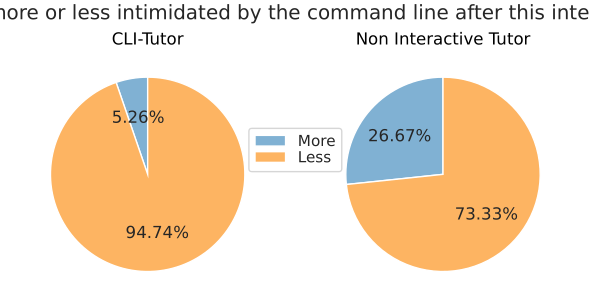
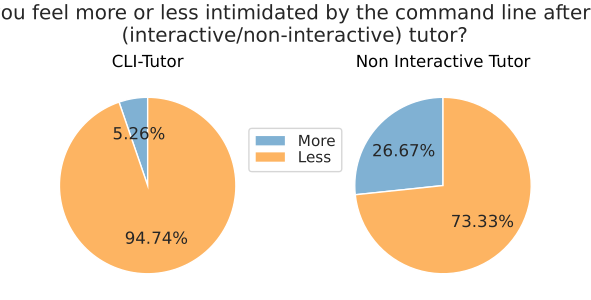
plots: Adjust title of confidence plot

diff --git a/thesis/chapters/results/results.tex b/thesis/chapters/results/results.tex
@@ -19,7 +19,9 @@
 \begin{figure}[htbp]
 	\centering
 	\scalebox{0.67}{\input{plots/confidence/plot.pgf}}
-	\vspace{-4em}
-	\caption{confidence}
-	\label{fig:question}
+	\vspace{-2em}
+	\caption{Charts comparing the post lesson intimidation levels between the two study groups.}
+	\label{fig:confidence}
 \end{figure}
+
+\subsection{Intimidation Factors}

diff --git a/thesis/plots/confidence/plot.py b/thesis/plots/confidence/plot.py
@@ -12,7 +12,7 @@ fig, (ax1, ax2) = plt.subplots(1, 2, figsize=(5.90666,3))
 sns.set(style="ticks")
 
 fig.suptitle(
-    "Do you feel more or less intimidated by the command line after this interactive tutor?"
+    "Do you feel more or less intimidated by the command line after this\n (interactive/non-interactive) tutor?"
 )
 
 total = 19.0
